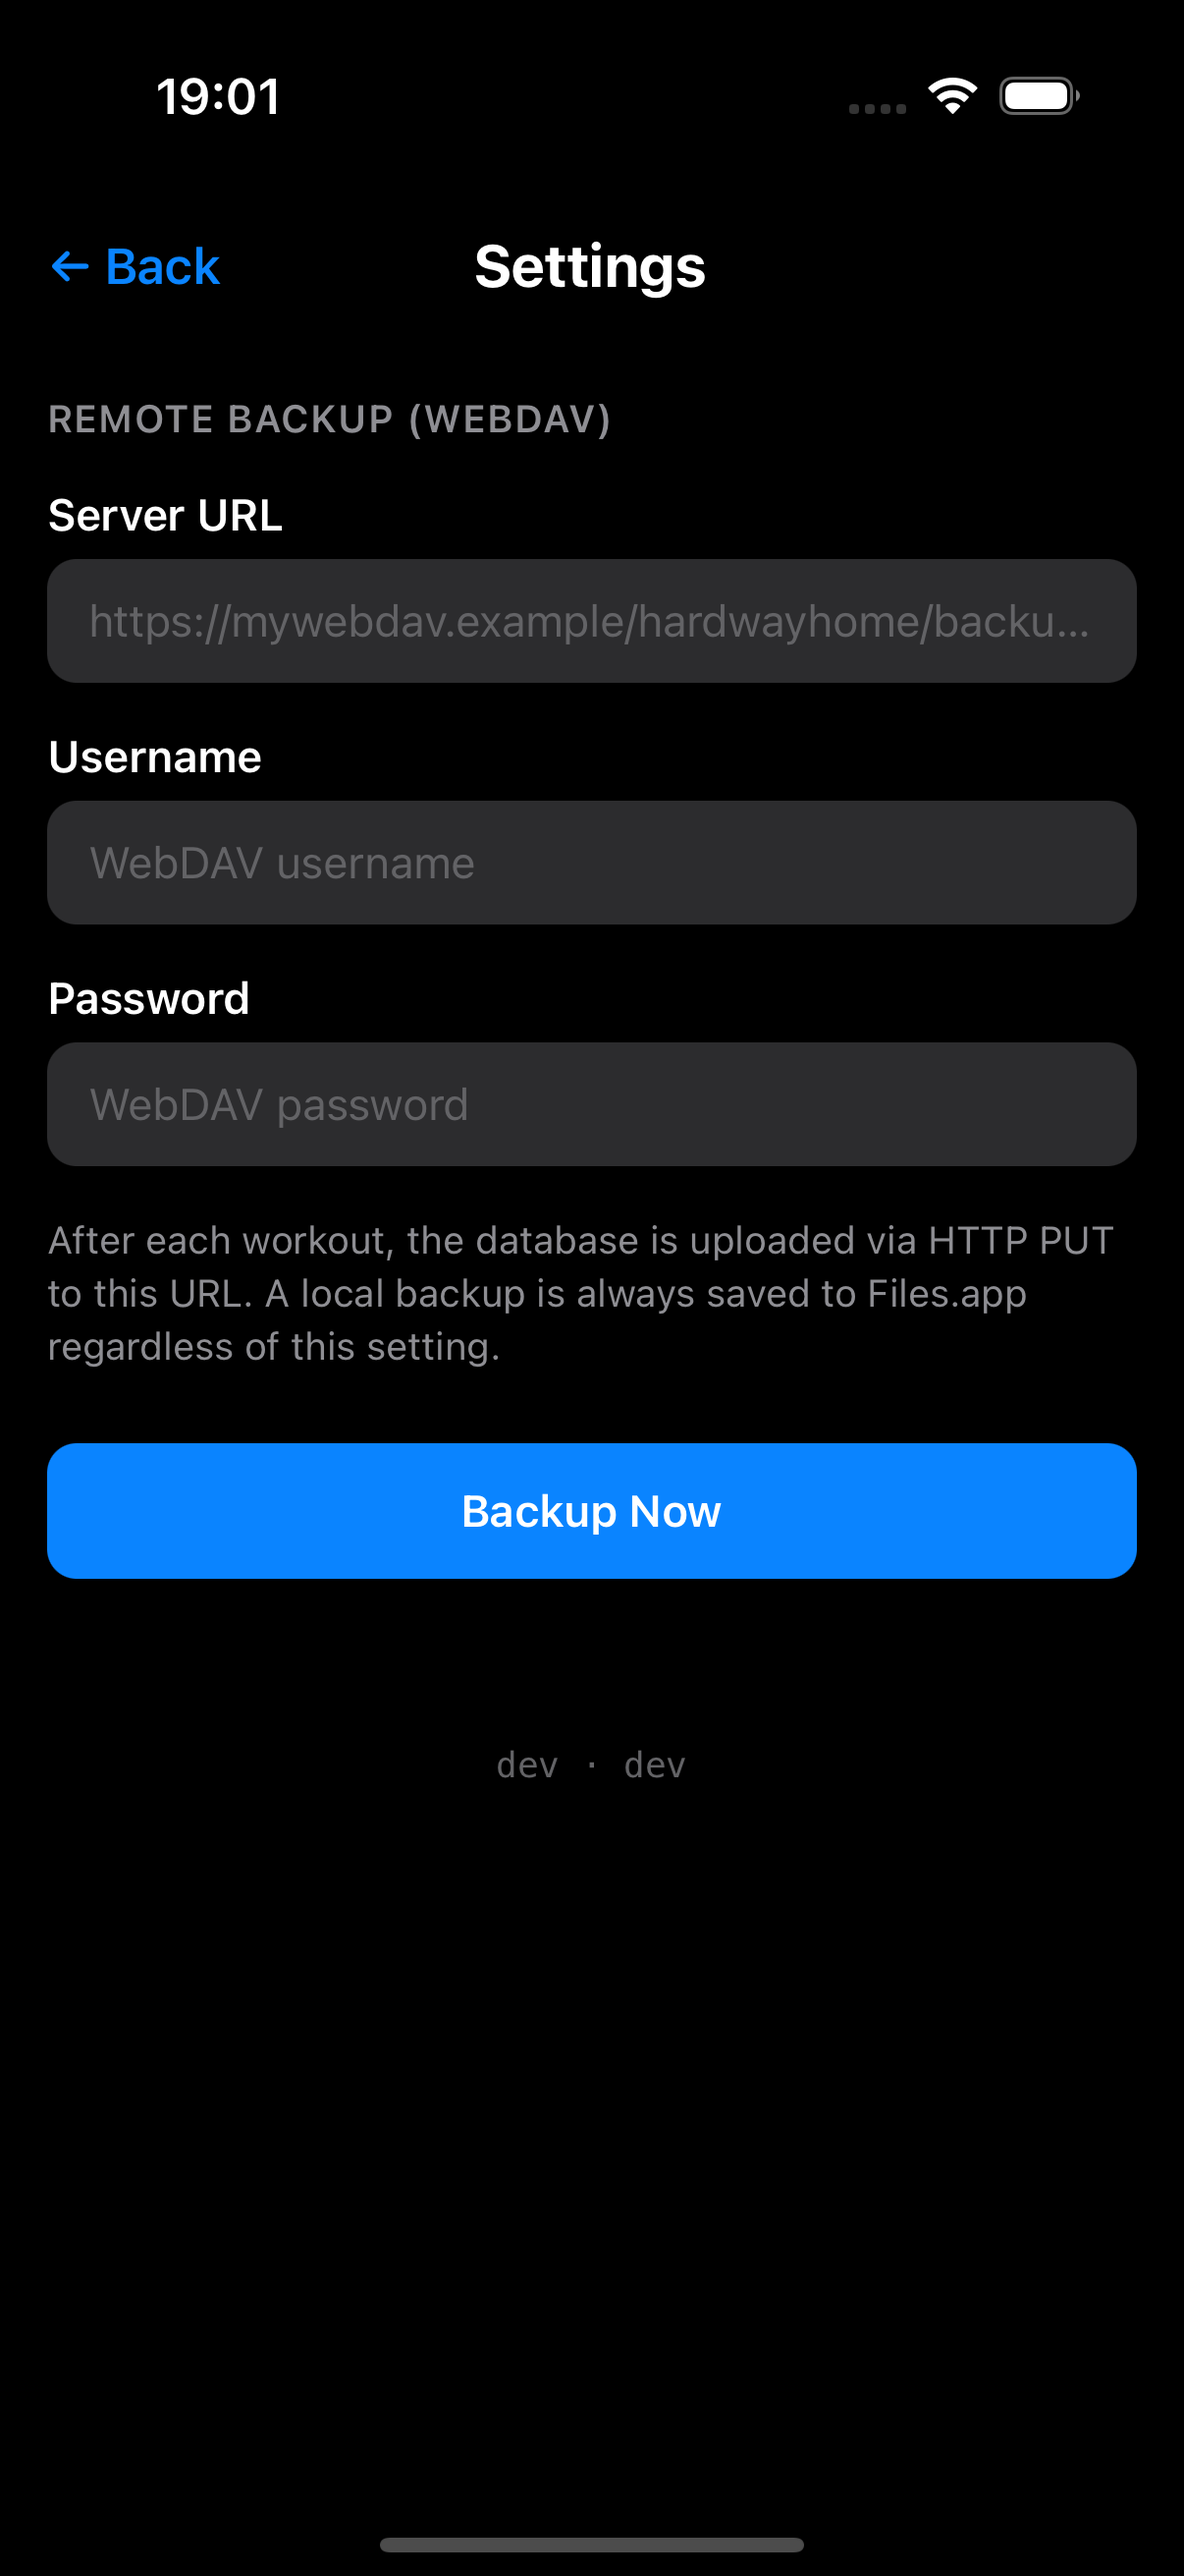
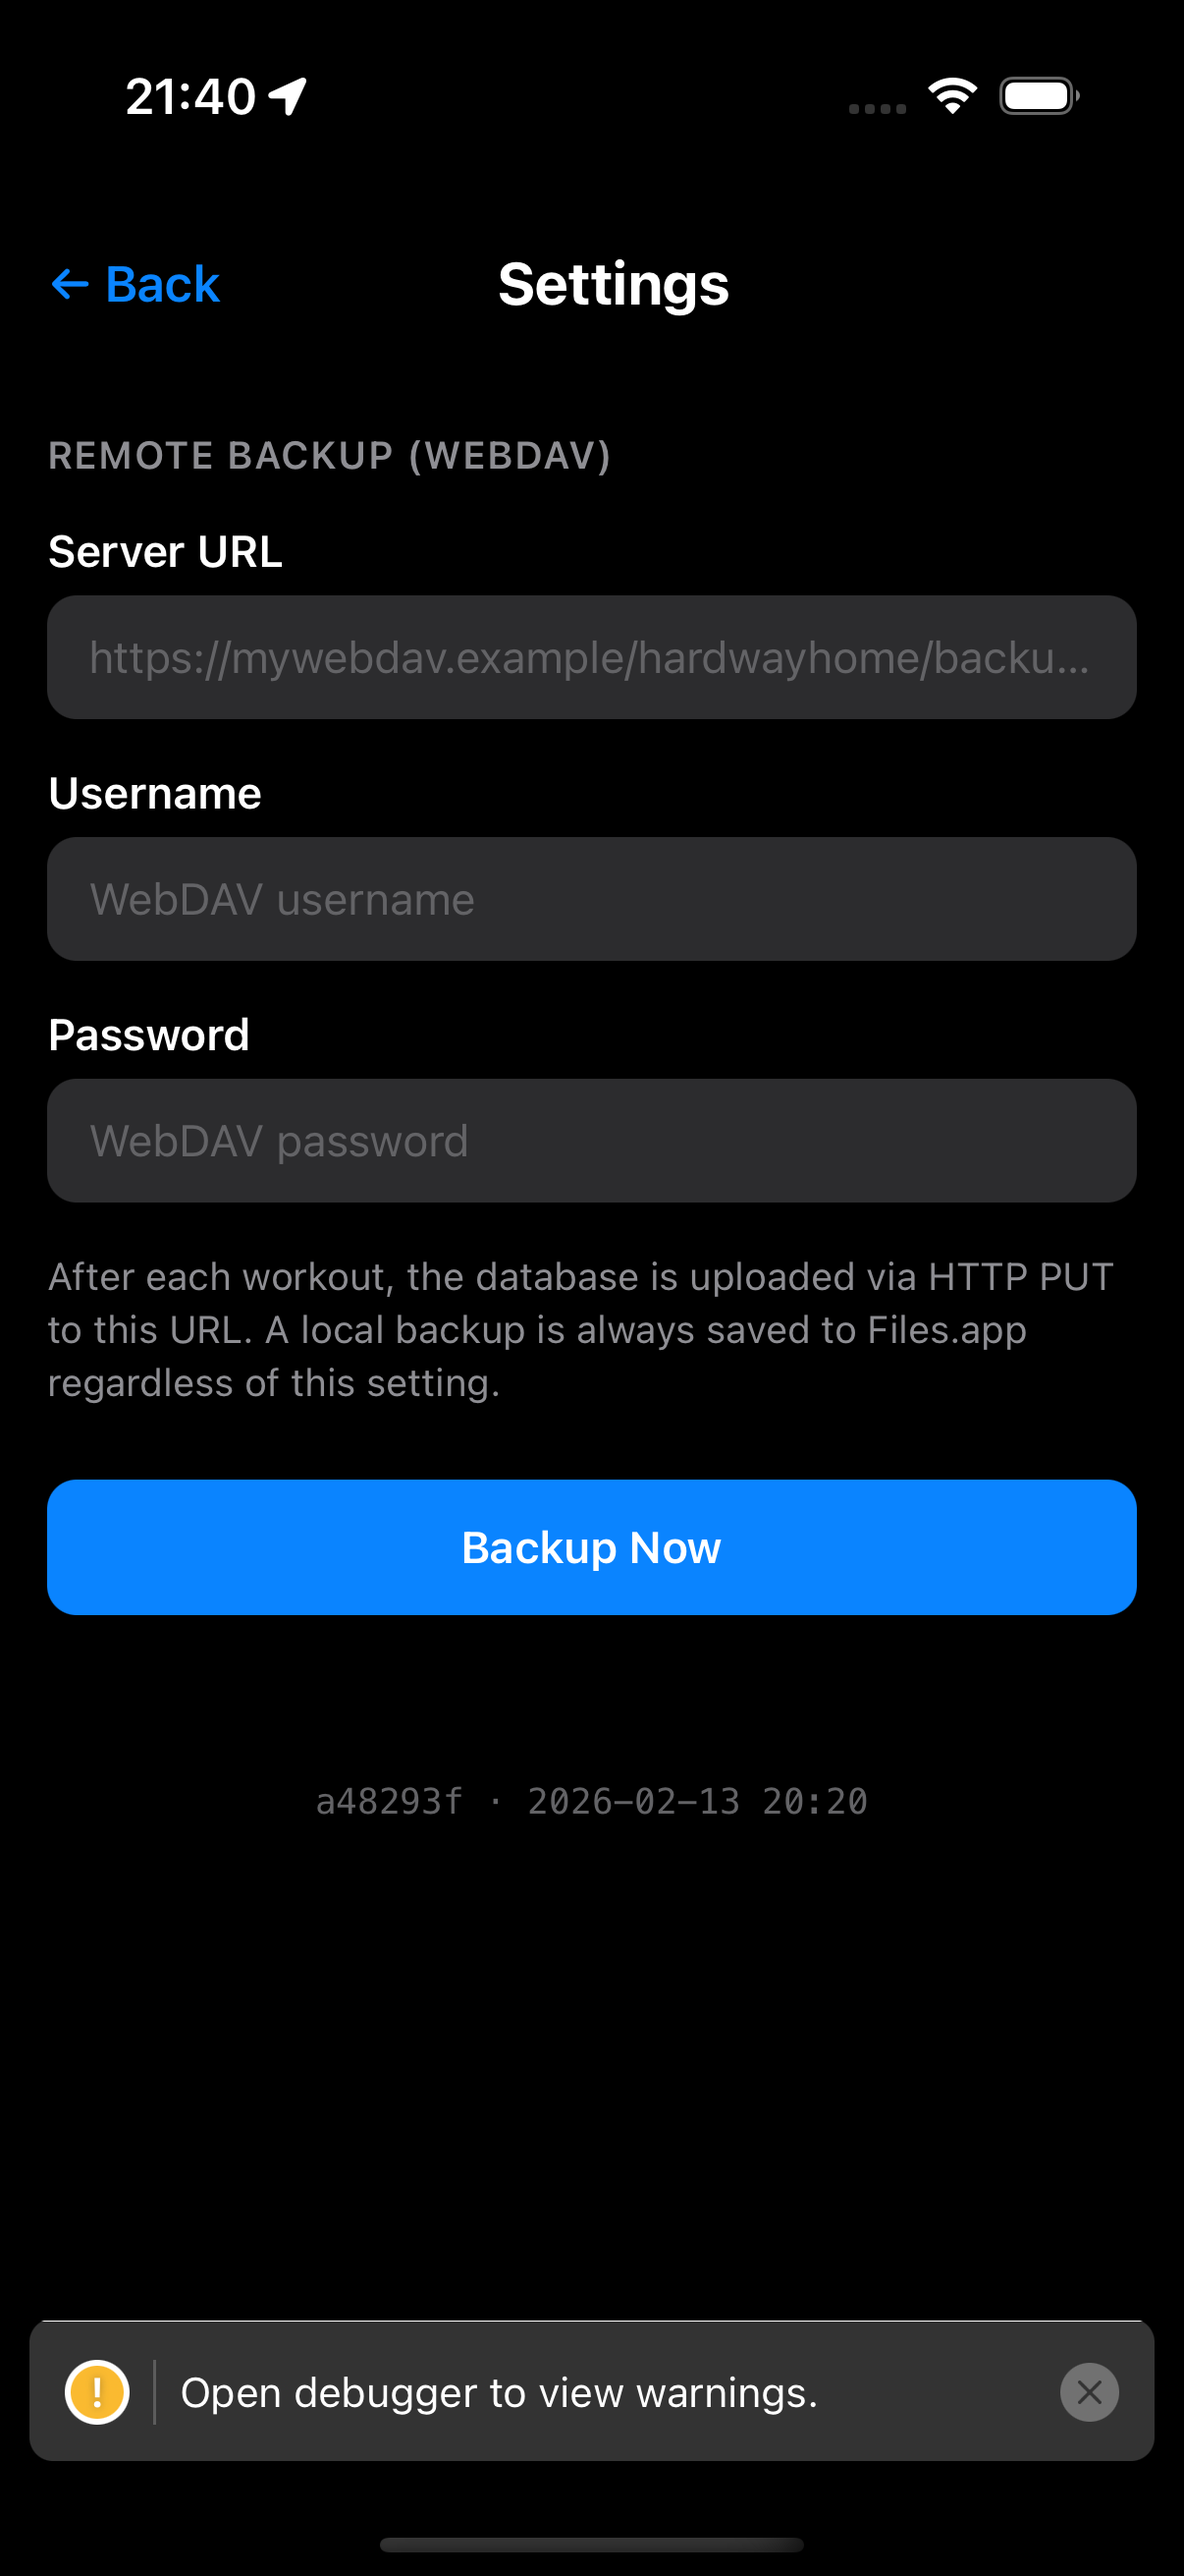
Screenshot update and script

diff --git a/app/_layout.tsx b/app/_layout.tsx
@@ -3,7 +3,7 @@ import { Stack } from 'expo-router';
 import { StatusBar } from 'expo-status-bar';
 import { router } from 'expo-router';
 import { getDatabase } from '@/src/db/database';
-import { getActiveWorkout } from '@/src/db/queries';
+import { getActiveWorkout, kvGet, kvSet } from '@/src/db/queries';
 import { requestLocationPermissions } from '@/src/services/location';
 import { requestBlePermission, reconnectToLastDevice } from '@/src/services/heartrate';
 import { initBackupStatus } from '@/src/services/backup';
@@ -39,12 +39,19 @@ export default function RootLayout() {
       reconnectToLastDevice().catch(() => {});
 
 
-      // Check for active workout and navigate accordingly
-      const activeWorkout = getActiveWorkout();
-      if (activeWorkout) {
-        setTimeout(() => {
-          router.replace('/workout');
-        }, 0);
+      // Dev: screenshot automation — navigate to a specific route if flag is set
+      const screenshotNav = kvGet('screenshot_nav');
+      if (screenshotNav) {
+        kvSet('screenshot_nav', '');
+        setTimeout(() => router.push(screenshotNav as any), 0);
+      } else {
+        // Check for active workout and navigate accordingly
+        const activeWorkout = getActiveWorkout();
+        if (activeWorkout) {
+          setTimeout(() => {
+            router.replace('/workout');
+          }, 0);
+        }
       }
 
       setIsReady(true);

diff --git a/src/buildInfo.ts b/src/buildInfo.ts
@@ -1,4 +1,3 @@
 // Auto-generated by scripts/generate-build-info.sh — do not edit manually.
-// Fallback values used during development; overwritten at build time.
-export const BUILD_COMMIT = 'dev';
-export const BUILD_DATE = 'dev';
+export const BUILD_COMMIT = 'a48293f';
+export const BUILD_DATE = '2026-02-13 20:20';
